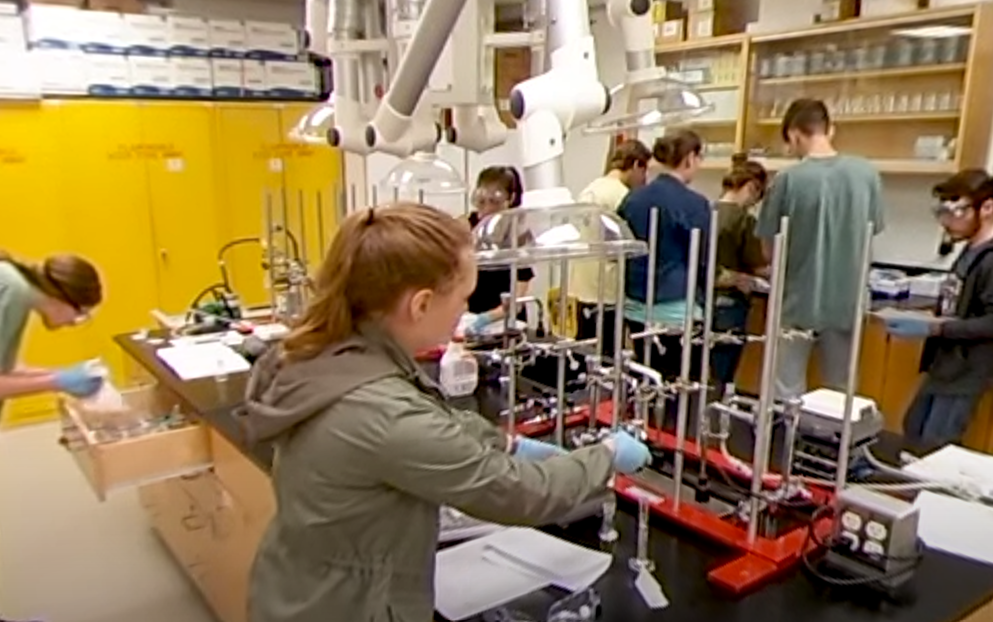
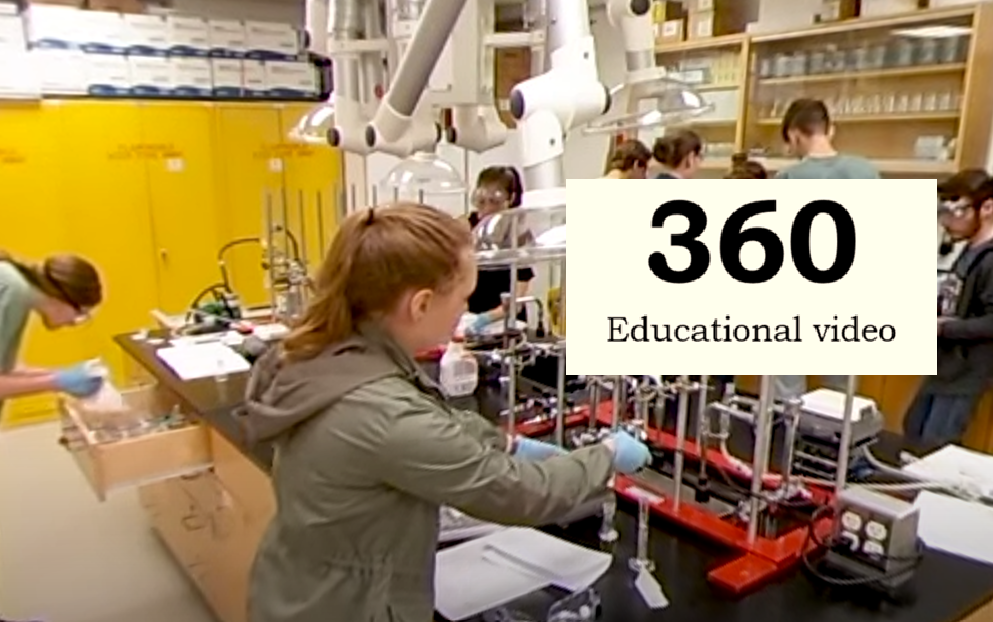
demais vídeos de thumbs

Changed region(s): [[0.5619, 0.2749, 0.9678, 0.6109]]

diff --git a/Hub/hubVideos.php b/Hub/hubVideos.php
@@ -19,7 +19,7 @@ $resultado = mysqli_query($conn,$sql);
     </header>
    <main id="mainVideos">
     <section id="videos">
-        <h1 class='classes'>História</h1>
+          <h1 class='classes'>↳ Vídeos de história</h1>
         <div class="caixas">
             <div class="caixa">
                 <a href="../ProjetosWebXR/index.php" target="_blank"><img id="img1" src="../Imagens/All_Gizah_Pyramids.jpg" alt="0"></a>
@@ -33,7 +33,6 @@ $resultado = mysqli_query($conn,$sql);
         </div>
     </section>
     <section id="videos2">
-        <h1 class='classes'>↳ Vídeos de história</h1>
         <div class="caixas">
             <div class="caixa">
                 <a href="https://youtu.be/m7h4XuvLrmg?si=Qpp-jgdLglSJ4Hmk" target="_blank"><img id="img1" src="../Imagens/trinchesletter.png" alt="0"></a>
@@ -47,7 +46,6 @@ $resultado = mysqli_query($conn,$sql);
         </div>
     </section>
     <section id="videos3">
-        <h1 class='classes'>↳ Vídeos de história</h1>
         <div class="caixas">
             <div class="caixa">
                 <a href="https://youtu.be/G_5r6HCW_DE?si=INJl0WiSZSCQ5hTa" target="_blank"><img src="../Imagens/texashistory.png" alt=""></a>
@@ -61,7 +59,7 @@ $resultado = mysqli_query($conn,$sql);
         </div>
     </section>
     <section id="videos4">
-        <h1 class='classes'>↳ Vídeos de história</h1>
+        <h1 class='classes'>↳ Vídeos de biologia</h1>
         <div class="caixas">
             <div class="caixa">
                 <a href="https://youtu.be/v64KOxKVLVg?si=foPVGI2QYP-RJCpb" target="_blank"><img src="../Imagens/nationalpark.png" alt=""></a>
@@ -75,7 +73,6 @@ $resultado = mysqli_query($conn,$sql);
         </div>
     </section>
     <section id="videos5">
-        <h1 class='classes'>↳ Vídeos de história</h1>
         <div class="caixas">
             <div class="caixa">
                 <a href="https://youtu.be/kw9EJbezlK4?si=gPz01_TdLRdqy76v" target="_blank"><img src="../Imagens/wthappinsiyrbody.png" alt=""></a>
@@ -85,20 +82,6 @@ $resultado = mysqli_query($conn,$sql);
             </div>
             <div class="caixa">
                 <a href="https://www.youtube.com/watch?v=rmgf0VDDlH8&ab_channel=PlantEnergyBiology" target="_blank"><img src="../Imagens/cellexploringvideo.png" alt=""></a>
-            </div>
-        </div>
-    </section>
-    <section id="videos6">
-        <h1 class='classes'>↳ Vídeos de história</h1>
-        <div class="caixas">
-            <div class="caixa">
-                <a href="" target="_blank"><img src="../Imagens/" alt=""></a>
-            </div>
-            <div class="caixa">
-                <a href="" target="_blank"><img src="../Imagens/" alt=""></a>
-            </div>
-            <div class="caixa">
-                <a href="" target="_blank"><img src="../Imagens/" alt=""></a>
             </div>
         </div>
     </section>
@@ -112,12 +95,11 @@ $resultado = mysqli_query($conn,$sql);
                 <a href="https://www.youtube.com/watch?v=z9Jm5zR3iSk&ab_channel=UniversityofHelsinki" target="_blank"><img src="../Imagens/radiochemistry.png" alt=""></a>
             </div>
             <div class="caixa">
-                <a href="https://www.youtube.com/watch?v=RNbNXUh3PH0&ab_channel=UBCOkanaganARCampusTOUR" target="_blank"><img src="../Imagens/" alt=""></a>
+                <a href="https://www.youtube.com/watch?v=RNbNXUh3PH0&ab_channel=UBCOkanaganARCampusTOUR" target="_blank"><img src="../Imagens/chemistry360video.png" alt=""></a>
             </div>
         </div>
     </section>
     <section id="videos8">
-        <h1 class='classes'>↳ Vídeos de química</h1>
         <div class="caixas">
             <div class="caixa">
                 <a href="https://www.youtube.com/watch?v=xsgS3yOBveY&t=2s&ab_channel=UniversityofBath" target="_blank"><img src="../Imagens/tourchemistrylab.png" alt=""></a>
@@ -147,7 +129,6 @@ $resultado = mysqli_query($conn,$sql);
     </section>
 
     <section id="videos10">
-        <h1 class='classes'>↳ Vídeos de artes</h1>
         <div class="caixas">
             <div class="caixa">
                 <a href="" target="_blank"><img src="../Imagens/" alt=""></a>
